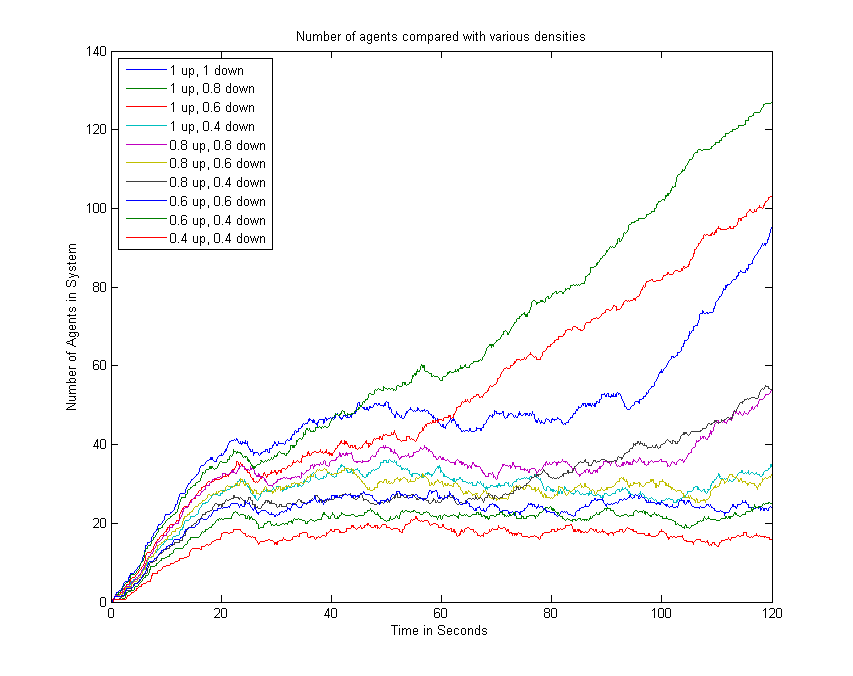
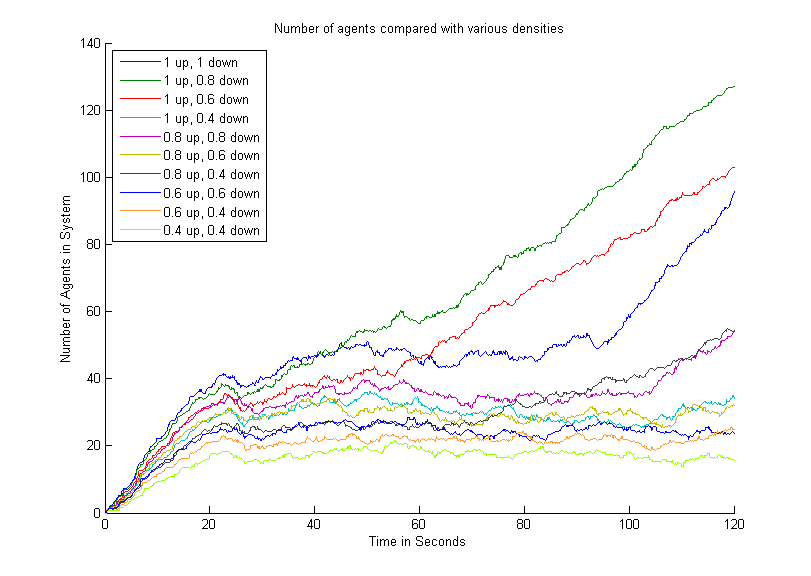
Density plots renewed

diff --git a/code/sim/Density/README.md b/code/sim/Density/README.md
@@ -32,4 +32,4 @@ And there are some plots:
 ## Plot commands
 Here are the Matlab codes for the plots:
 
-The Matlab codes can be found in the file APlotCodes.txt.
+The Matlab codes can be found in the file APlotCodes.txt, two of them were exported in scripts named after the plots they create.
